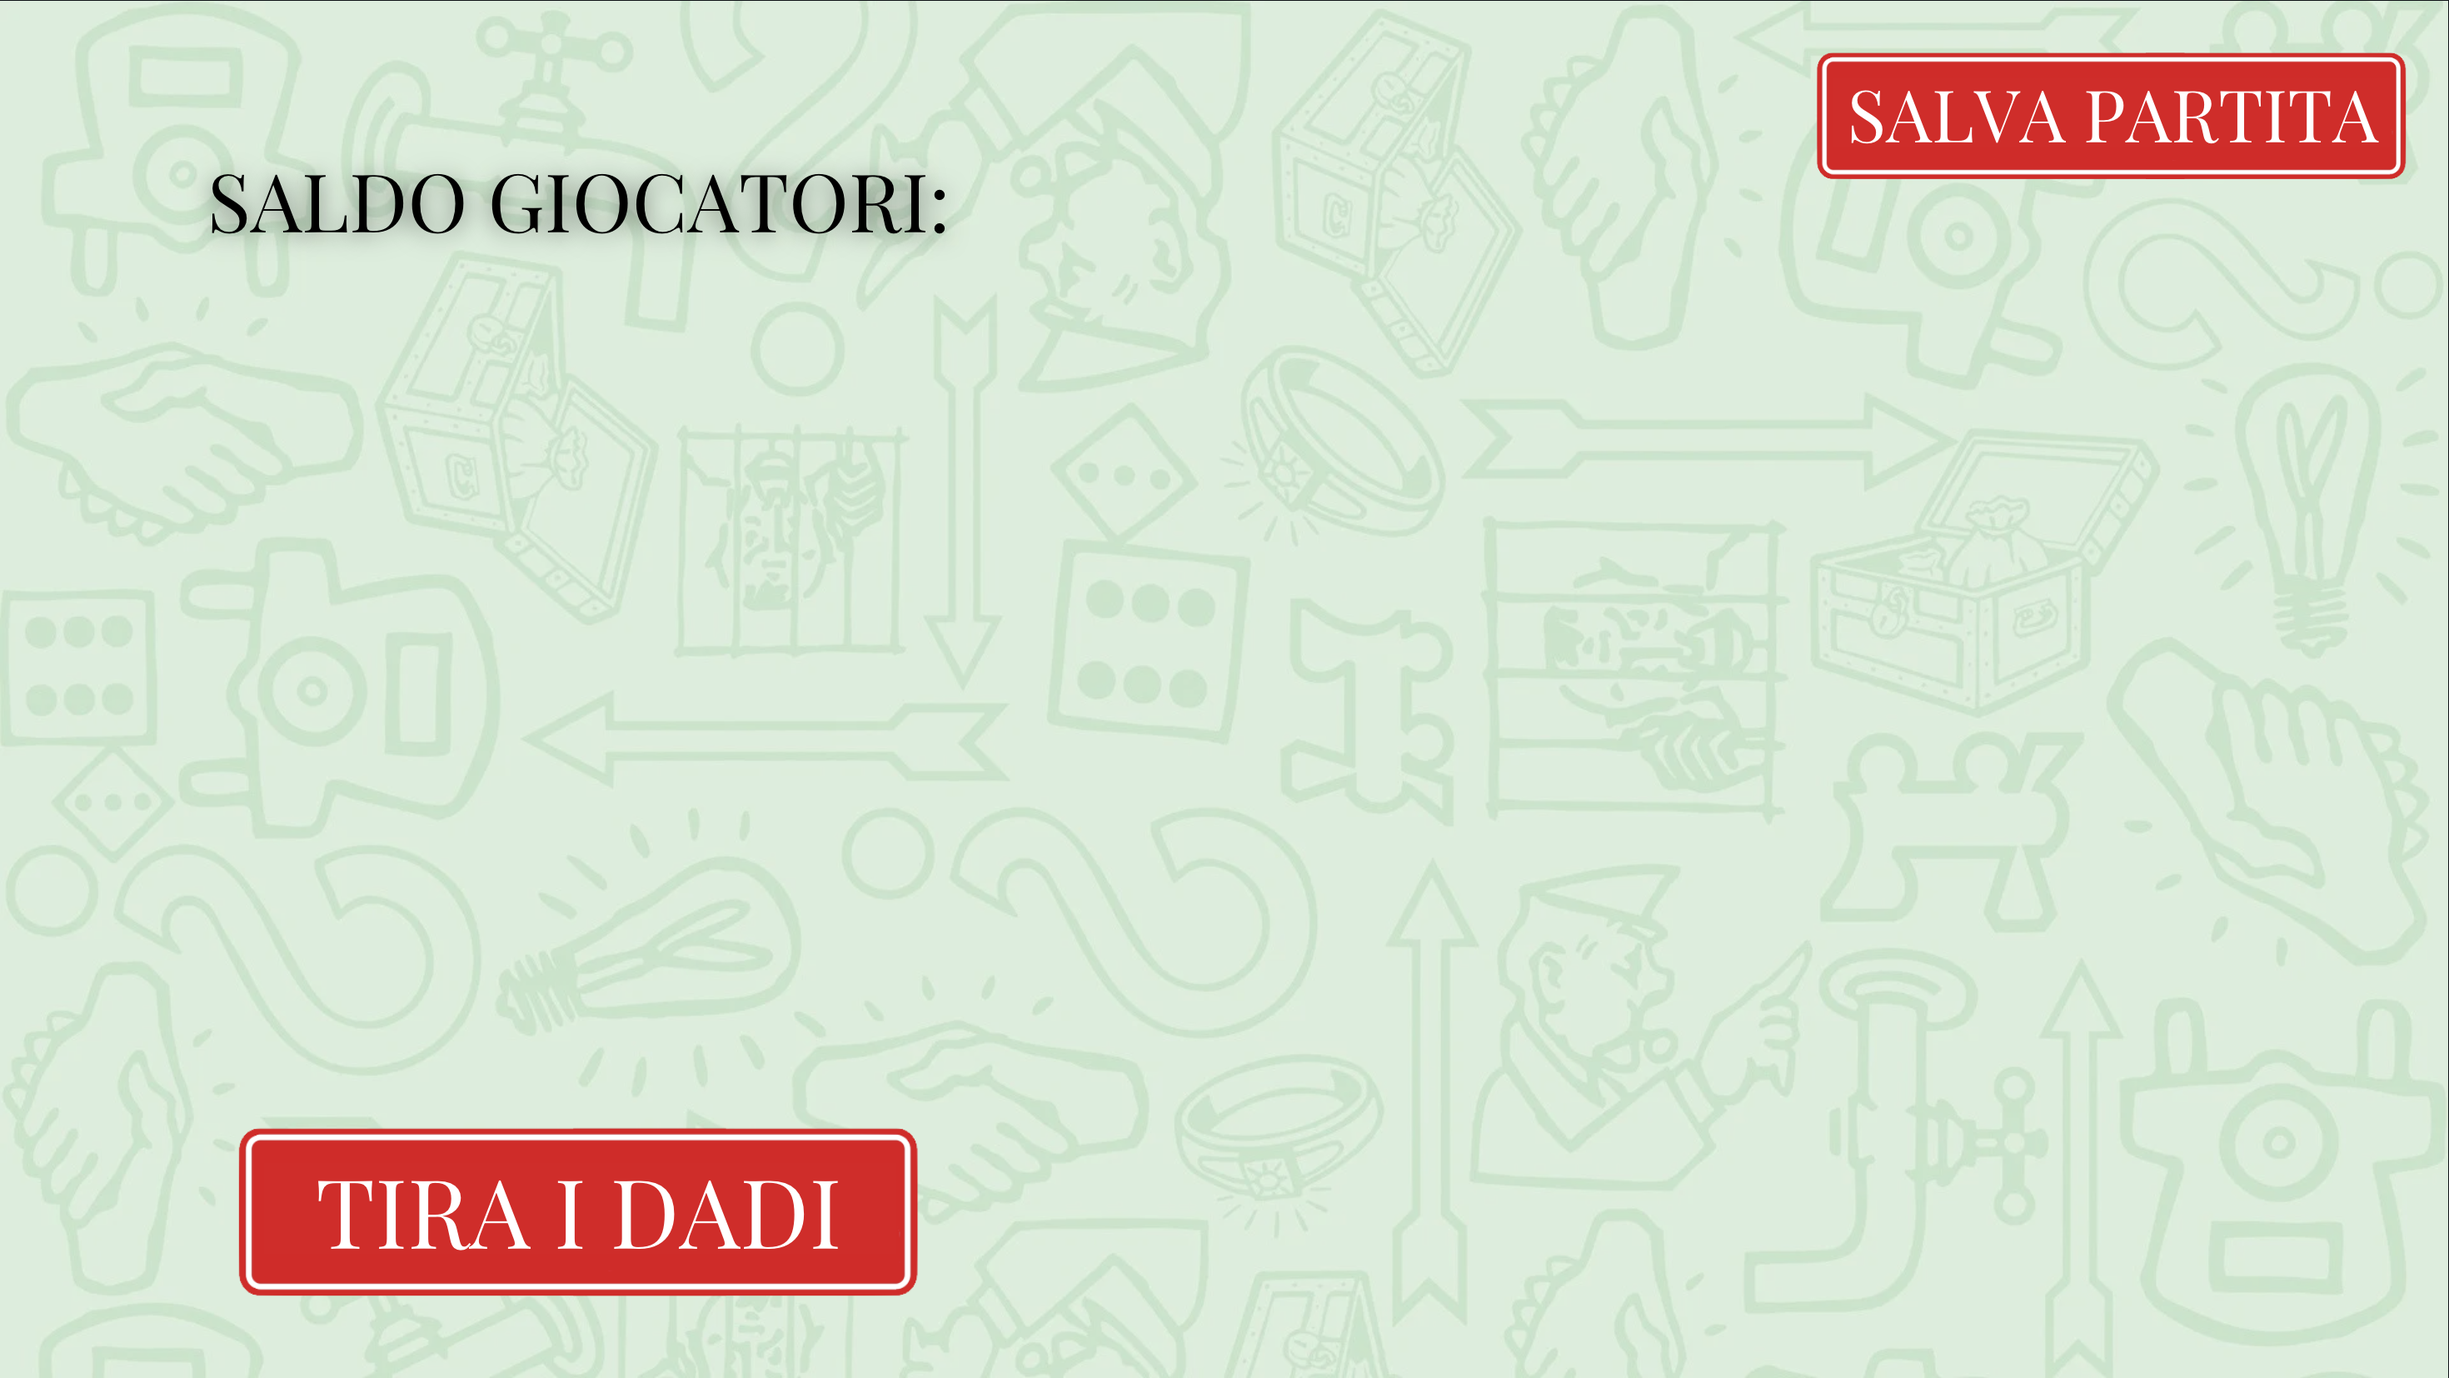
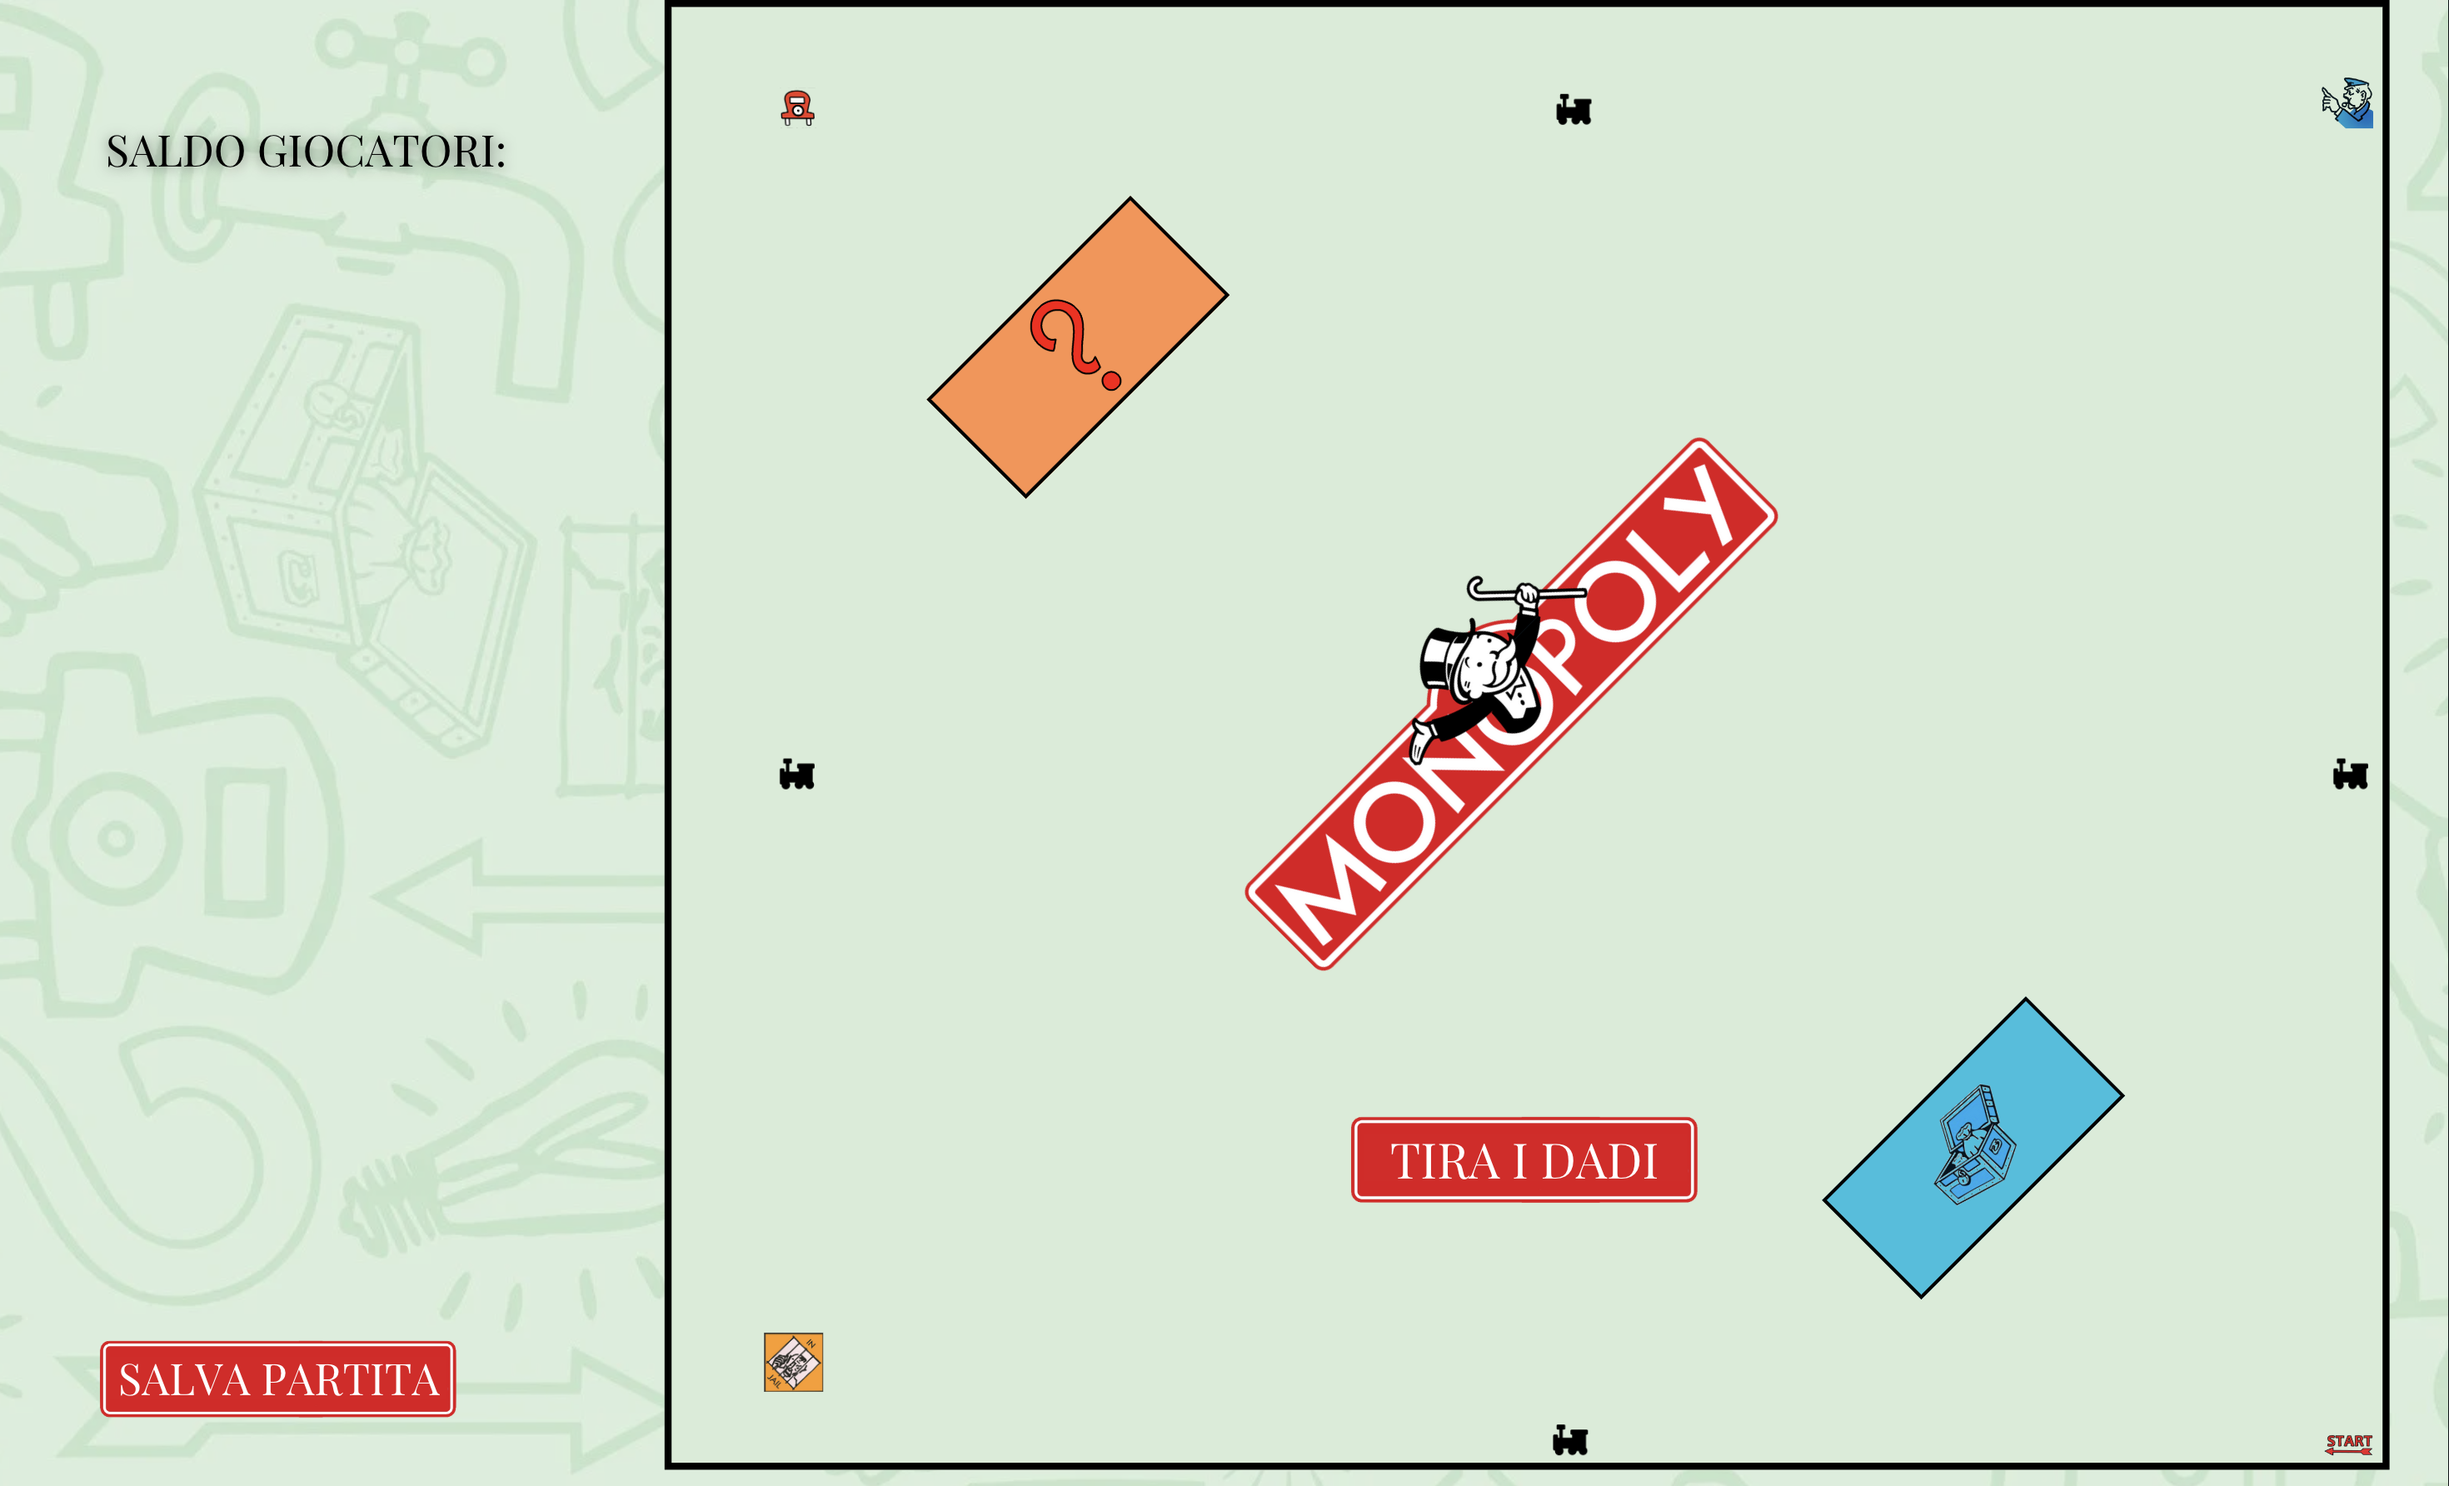
Tabellone finito(godo)

diff --git a/src/game/TableController.java b/src/game/TableController.java
@@ -10,12 +10,14 @@ import javafx.scene.Scene;
 import javafx.scene.control.*;
 import javafx.scene.layout.*;
 import javafx.scene.paint.Paint;
+import javafx.scene.shape.Rectangle;
+import javafx.scene.text.Font;
 import javafx.scene.text.TextAlignment;
 import javafx.stage.Stage;
+import javafx.util.Duration;
 import player.Player;
 
-import table.Box;
-import table.Table;
+import table.*;
 
 import java.io.IOException;
 import java.util.Objects;
@@ -143,6 +145,8 @@ public class TableController {
 
     public void showTable() {
         Platform.runLater(() -> {
+            gridPane.getChildren().clear();
+
             Table table = monopoly.getTable();
 
             gridPane.setMinHeight(Region.USE_COMPUTED_SIZE);
@@ -150,31 +154,86 @@ public class TableController {
             gridPane.setPrefHeight(Region.USE_COMPUTED_SIZE);
             gridPane.setPrefWidth(Region.USE_COMPUTED_SIZE);
 
-            gridPane.setHgap(10);
-            gridPane.setVgap(10);
+            gridPane.setHgap(2);
+            gridPane.setVgap(2);
 
-            int cellSize = 100;
+            int cellHeight = 73;
+            int cellWidth = 85;
 
-            for (int i = 0; i < 4; i++) {
-                for (int j = 0; j < 4; j++) {
+            gridPane.getColumnConstraints().clear();
+            gridPane.getRowConstraints().clear();
 
-                    Box currentBox = table.getBox(i);
-                    Label l = new Label(currentBox.getBoxDetailsToString());
-                    l.setPrefHeight(cellSize);
-                    l.setPrefWidth(cellSize);
-                    l.setTextAlignment(TextAlignment.LEFT);
-                    l.setBackground(Background.fill(Paint.valueOf("white")));
-                    l.setMaxSize(Double.MAX_VALUE, Double.MAX_VALUE);
-                    l.setAlignment(Pos.TOP_LEFT);
-                    GridPane.setFillWidth(l, true);
-                    GridPane.setFillHeight(l, true);
+            for (int i = 0; i < table.getX(); i++) {
+                ColumnConstraints colConstraints = new ColumnConstraints(cellWidth);
+                gridPane.getColumnConstraints().add(colConstraints);
+            }
 
-                    gridPane.add(l, i, j);
+            for (int j = 0; j < table.getY(); j++) {
+                RowConstraints rowConstraints = new RowConstraints(cellHeight);
+                gridPane.getRowConstraints().add(rowConstraints);
+            }
 
+            for (int i = 0; i < table.getX(); i++) {
+                for (int j = 0; j < table.getY(); j++) {
+                    Box currentBox = table.getBox(i, j);
+                    if (currentBox != null) {
+                        Label l = new Label(currentBox.getBoxDetailsToString());
+                        l.setFont(new Font("Arial", 10));
+                        l.setPrefHeight(cellHeight);
+                        l.setPrefWidth(cellWidth);
+                        l.setTextAlignment(TextAlignment.LEFT);
+                        l.setMaxSize(Double.MAX_VALUE, Double.MAX_VALUE);
+                        l.setAlignment(Pos.TOP_LEFT);
+                        l.setStyle("-fx-border-color: black; -fx-border-width: 2;");
+                        GridPane.setFillWidth(l, true);
+                        GridPane.setFillHeight(l, true);
+
+                        Tooltip tooltip = new Tooltip(currentBox.getBoxDetailsWindow());
+                        tooltip.setShowDelay(new Duration(10));
+                        tooltip.setFont(new Font("Arial", 10));
+
+                        StackPane stackPane = new StackPane();
+
+                        //se è una proprietà acquistabile, viene creato un rettangolo con il colore della casella
+                        if (currentBox instanceof Property) {
+                            Rectangle r = new Rectangle();
+                            r.setHeight(10);
+                            r.setWidth(cellWidth - 2);
+                            String color = currentBox.getColor().toString();
+                            r.setStyle("-fx-fill: " + color + "; -fx-stroke: black; -fx-stroke-width: 2;");
+                            StackPane.setAlignment(r, Pos.TOP_CENTER);
+                            stackPane.getChildren().addAll(r, l);
+                        }
+                        //se è un imprevisto, viene creato un rettangolo arancione
+                        else if (currentBox instanceof Chance) {
+                            Rectangle r = new Rectangle();
+                            r.setHeight(cellHeight);
+                            r.setWidth(cellWidth - 2);
+                            r.setStyle("-fx-fill: orange; -fx-opacity: 0.3;");
+                            StackPane.setAlignment(r, Pos.CENTER);
+                            stackPane.getChildren().addAll(r, l);
+                        }
+                        //se è una probabilità, viene creato un rettangolo azzurro
+                        else if (currentBox instanceof Probability) {
+                            Rectangle r = new Rectangle();
+                            r.setHeight(cellHeight);
+                            r.setWidth(cellWidth - 2);
+                            r.setStyle("-fx-fill: #00e1ff; -fx-opacity: 0.3;");
+                            StackPane.setAlignment(r, Pos.CENTER);
+                            stackPane.getChildren().addAll(r, l);
+                        } else {
+                            stackPane.getChildren().add(l);
+                        }
+
+                        Tooltip.install(l, tooltip);
+                        gridPane.add(stackPane, j, i);
+                    }
                 }
             }
         });
     }
+
+
 
 
 }

diff --git a/src/game/Monopoly.java b/src/game/Monopoly.java
@@ -98,7 +98,6 @@ public class Monopoly implements Serializable {
         }
 
         TableController.showDices(dado1, dado2, player);
-        //System.out.print("Numero uscito dal dado 1: " + dado1 + "\n" + "Numero uscito dal dado 2: " + dado2 + "\n" + "Somma dadi: " +  (dado1+dado2) + "\n");
         move(player, dado1 + dado2);
     }
 
@@ -120,7 +119,6 @@ public class Monopoly implements Serializable {
         if(owner != null){
             bank.transferMoney(property.getMoney(player.getBalance()), player, owner);
             TableController.showAlert(player.getName() + " ha pagato " + Math.abs(property.getMoney(player.getBalance())) + " a " + owner.getName() + " per " + property.getName());
-            //System.out.println(player.getName() + " ha pagato " + Math.abs(property.getMoney(player.getBalance())) + " a " + owner.getName() + " per " + property.getName());
             return;
         }
         bank.updateBalance(property.getMoney(player.getBalance()), player);
@@ -128,7 +126,6 @@ public class Monopoly implements Serializable {
 
     public void useProbabilityCard(Player player,  ProbabilityCard probabilityCard){
         TableController.showAlert("IMPREVISTI!", probabilityCard.getPrint(), currentPlayer);
-        //System.out.printf(probabilityCard.getPrint());
         if(probabilityCard.getType() == ProbabilityChanceType.PAY)
             bank.updateBalance(-probabilityCard.getAmmount(), player);
         else if (probabilityCard.getType() == ProbabilityChanceType.RECEIVE)
@@ -141,7 +138,6 @@ public class Monopoly implements Serializable {
 
     public void useChanceCard(Player player,  ChanceCard chanceCard){
         TableController.showAlert("IMPREVISTI!", chanceCard.getPrint(), currentPlayer);
-        //System.out.printf(chanceCard.getPrint());
         if(chanceCard.getType() == ProbabilityChanceType.PAY)
             bank.updateBalance(-chanceCard.getAmmount(), player);
         else if (chanceCard.getType() == ProbabilityChanceType.RECEIVE)
@@ -168,7 +164,7 @@ public class Monopoly implements Serializable {
             move(player, dado1, dado2);
         }
         else{
-            TableController.showAlert("Tiro dei dadi in prigione", "Dado 1: " + dado1 + "\n" + "Dado 2: \nNon esci di prigione!" + dado2, player);
+            TableController.showAlert("Tiro dei dadi in prigione", "Dado 1: " + dado1 + "\n" + "Dado 2: " + dado2 + "\nNon esci di prigione!", player);
             player.setnPrisonTurn(player.getnPrisonTurn()-1);
         }
     }

diff --git a/src/table/Colors.java b/src/table/Colors.java
@@ -4,8 +4,8 @@ import java.util.ArrayList;
 import java.util.List;
 
 public enum Colors {
-    BROWN("\033[94m"), LIGHT_BLUE("\033[36m"), PINK("\033[35m"), GREY("\033[37m"), RED("\033[31m"), YELLOW("\033[33m"), GREEN("\033[32m"), BLUE("\033[34m"), BLACK("\033[00m"), RESET("\033[00m");
-
+    //BROWN("\033[94m"), LIGHT_BLUE("\033[36m"), PINK("\033[35m"), GREY("\033[37m"), RED("\033[31m"), YELLOW("\033[33m"), GREEN("\033[32m"), BLUE("\033[34m"), BLACK("\033[00m"), RESET("\033[00m");
+    BROWN("brown"), LIGHT_BLUE("lightblue"), PINK("pink"), GREY("grey"), RED("red"), YELLOW("yellow"), GREEN("green"), BLUE("blue"), BLACK("black"), RESET("black");
     private final String color;
 
     Colors(String color) {
@@ -16,4 +16,5 @@ public enum Colors {
     public String toString() {
         return color;
     }
+
 }

diff --git a/src/table/BuildableProperty.java b/src/table/BuildableProperty.java
@@ -72,8 +72,10 @@ public class BuildableProperty extends Property{
         String[] details = super.getBoxDetails();
         details[3] = "Prezzo casa: " + Math.abs(priceHouse);
         details[4] = "Prezzo hotel: " + Math.abs(priceHotel);
-        //details[5] = "⌂ ".repeat(housesCount) + "  ".repeat(hotelsCount);
-        details[5] = "Case: " + housesCount + "| Hotel: " + hotelsCount;
+        details[5] = "Case: " + housesCount + " | Hotel: " + hotelsCount;
         return details;
+    }
+    public String getBoxDetailsToString() {
+        return "\n" + super.getName() + "\n$" + Math.abs(getMoney()) + "\n" + getSymbolsOfPlayersInBox();
     }
 }

diff --git a/src/table/Box.java b/src/table/Box.java
@@ -108,8 +108,16 @@ abstract public class Box implements Serializable {
         return details;
     }
 
+    public String getBoxDetailsWindow(){
+        StringBuilder boxDetails = new StringBuilder();
+        for(String details : getBoxDetails()){
+            boxDetails.append(details).append("\n");
+        }
+        return boxDetails.toString();
+    }
+
     public String getBoxDetailsToString() {
-        return name + "\n\n" + getSymbolsOfPlayersInBox();
+        return "\n" + name + "\n" + getSymbolsOfPlayersInBox();
     }
 
     public int getCntPlayersInTheBox() {

diff --git a/src/game/Game.java b/src/game/Game.java
@@ -78,7 +78,6 @@ public class Game extends Application {
             monopoly = Monopoly.loadState(in);
         } catch (FileNotFoundException e) {
             TableController.showAlert("File non trovato");
-            //System.out.println("File non trovato");
         } catch (IOException | ClassNotFoundException e) {
             TableController.showAlert("Non è stato possibile caricare lo stato del gioco");
         }

diff --git a/src/table/Table.java b/src/table/Table.java
@@ -32,6 +32,9 @@ public class Table implements Serializable {
     public Box getBox(int index) {
         return boxes[index];
     }
+    public Box getBox(int i1, int i2) {
+        return table[i1][i2];
+    }
 
     public void readBoxes(ArrayList<Box> boxes) {
         try (FileInputStream file = new FileInputStream("PropertyData.csv");

diff --git a/src/table/GoToPrison.java b/src/table/GoToPrison.java
@@ -8,7 +8,7 @@ public class GoToPrison extends Box{
     private static final long serialVersionUID = 6839721514262352884L;
 
     public GoToPrison() {
-        super(Colors.BLACK, 0, "\uD83E\uDEF5VAI IN PRIGIONE");
+        super(Colors.BLACK, 0, "VAI IN PRIGIONE");
     }
 
     @Override
